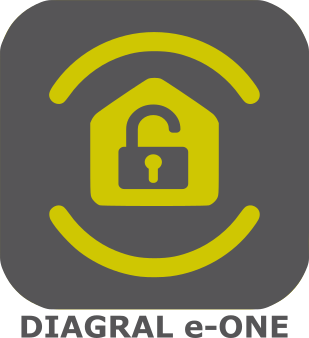
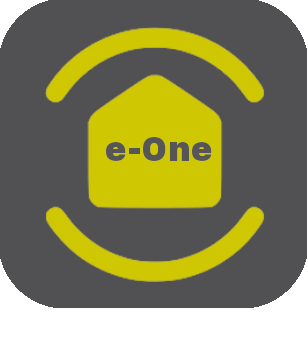
Remplacement des icones pour gerer les types + dynamique icone dans la page equipement

diff --git a/desktop/js/Diagral_eOne.js b/desktop/js/Diagral_eOne.js
@@ -231,9 +231,9 @@ $('#bt_showImagedetectorVideos').on('click',function() {
 
 // Application des templates d'affichage
 $('.eqLogicAttr[data-l1key=id], .eqLogicAttr[data-l1key=configuration][data-l2key=type]').on('change', function () {
-    var id = $('.eqLogicAttr[data-l1key=id]').val();
+    var eqLogicId = $('.eqLogicAttr[data-l1key=id]').val();
     var type = $('.eqLogicAttr[data-l1key=configuration][data-l2key=type]').val();
-    //console.log ("ID : " + id + "/ template : " + type)
+    //console.log ("ID : " + eqLogicId + "/ template : " + type)
     // Custom Template
     $('.eqCustom').hide();
     var cssClass = '.eq' + type.charAt(0).toUpperCase() + type.slice(1);
@@ -246,7 +246,7 @@ $('.eqLogicAttr[data-l1key=id], .eqLogicAttr[data-l1key=configuration][data-l2ke
             url: "plugins/Diagral_eOne/core/ajax/Diagral_eOne.ajax.php", // url du fichier php
             data: {
                 action: "generateCentralLink",
-                eqID: id,
+                eqID: eqLogicId,
             },
             dataType: 'json',
             error: function (request, status, error) {
@@ -259,6 +259,27 @@ $('.eqLogicAttr[data-l1key=id], .eqLogicAttr[data-l1key=configuration][data-l2ke
                     $( "#centralLink" ).append( "<a class='btn btn-info btn-sm cmdAction' href='/index.php?v=d&m=Diagral_eOne&p=Diagral_eOne&id=" + JSONreturn['centraleId'] + "' target='_blank'><i class='fas fa-info'></i> {{Voir}}</a>" )
                 }
             }
+        });
+    }
+    // Si on a un EqLogicId alors on change l'image selon le type d'équipement
+    if (eqLogicId) {
+    $.ajax({// fonction permettant de faire de l'ajax
+        type: "POST", // methode de transmission des données au fichier php
+        url: "plugins/Diagral_eOne/core/ajax/Diagral_eOne.ajax.php", // url du fichier php
+        data: {
+            action: "getIconPath",
+            eqLogicId: eqLogicId,
+        },
+        dataType: 'json',
+        error: function (request, status, error) {
+            handleAjaxError(request, status, error);
+        },
+        success: function (data) { // si l'appel a bien fonctionné
+            var JSONreturn = JSON.parse(data.result);
+            if(JSONreturn['iconPath']) {
+                $("img[name*='icon_visu']").attr("src", JSONreturn['iconPath']);
+            }
+        }
         });
     }
 });

diff --git a/desktop/php/Diagral_eOne.php b/desktop/php/Diagral_eOne.php
@@ -50,7 +50,7 @@ $pluginCompatible = array(
                 if ($eqLogic->getConfiguration('type', '') != 'centrale') continue;
                 $opacity = ($eqLogic->getIsEnable()) ? '' : 'disableCard';
                 echo '<div class="eqLogicDisplayCard cursor '.$opacity.'" data-eqLogic_id="' . $eqLogic->getId() . '">';
-                echo '<img src="' . $plugin->getPathImgIcon() . '"/>';
+                echo '<img src="' . Diagral_eOne::getPathDeviceIcon($eqLogic) . '"/>';
                 echo '<br>';
                 echo '<span class="name">' . $eqLogic->getHumanName(true, true) . '</span>';
                 echo '</div>';
@@ -66,7 +66,7 @@ $pluginCompatible = array(
                 if ($eqLogic->getConfiguration('type', '') != 'imagedetector') continue;
                 $opacity = ($eqLogic->getIsEnable()) ? '' : 'disableCard';
                 echo '<div class="eqLogicDisplayCard cursor '.$opacity.'" data-eqLogic_id="' . $eqLogic->getId() . '">';
-                echo '<img src="' . $plugin->getPathImgIcon() . '"/>';
+                echo '<img src="' . Diagral_eOne::getPathDeviceIcon($eqLogic) . '"/>';
                 echo '<br>';
                 echo '<span class="name">' . $eqLogic->getHumanName(true, true) . '</span>';
                 echo '</div>';

diff --git a/core/class/Diagral_eOne.class.php b/core/class/Diagral_eOne.class.php
@@ -1488,7 +1488,20 @@ class Diagral_eOne extends eqLogic {
             log::add('Diagral_eOne', 'warning', 'installTracking Erreur '. $request->code .' avec le serveur de suivi des installations (' . $request->body->message . ') : ' . var_export($request->body, True));
         }
         return $request->code;
-}
+    }
+
+    /* ------------------------------ Gestion des icones par type d'équipements ------------------------------ */
+
+    /**
+     * Renvoi le chemin de l'icone
+     */
+    public function getPathDeviceIcon($eqLogic) {
+        if (file_exists(__DIR__ . '/../devices_image/' . $eqLogic->getConfiguration('type') . '_icon.png')) {
+            return 'plugins/Diagral_eOne/core/devices_image/' . $eqLogic->getConfiguration('type') . '_icon.png';
+        }
+        $plugin = plugin::byId('Diagral_eOne');
+        return $plugin->getPathImgIcon();
+     }
 
     /*     * **********************Getteur Setteur*************************** */
 }

diff --git a/core/ajax/Diagral_eOne.ajax.php b/core/ajax/Diagral_eOne.ajax.php
@@ -35,6 +35,22 @@ try {
       }
     }
 
+    // Mise en place des icones d'équipement selon le type
+    if (init('action') == 'getIconPath') {
+		try {
+			$eqLogic = eqLogic::byId(init(eqLogicId), 'Diagral_eOne');
+			if (is_object($eqLogic)) {
+				$iconPath = Diagral_eOne::getPathDeviceIcon($eqLogic);
+				$return = array('iconPath' => $iconPath);
+				ajax::success(json_encode($return));
+			} else {
+			ajax::success(false);
+			}
+		} catch (Exception $e) {
+			ajax::error(displayExeption($e), $e->getCode());
+		}
+	}
+
     //Lancement de la suppression des données de tracking
     if (init('action') == 'delete_remote_datainfo') {
         try {
